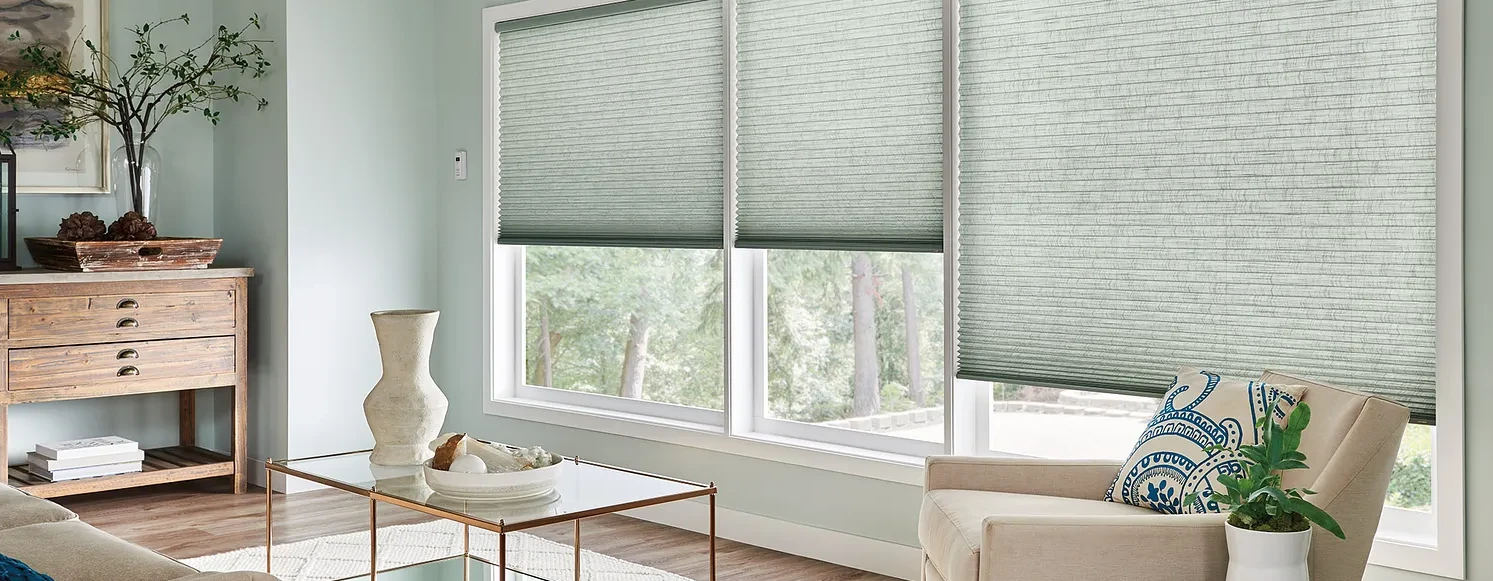
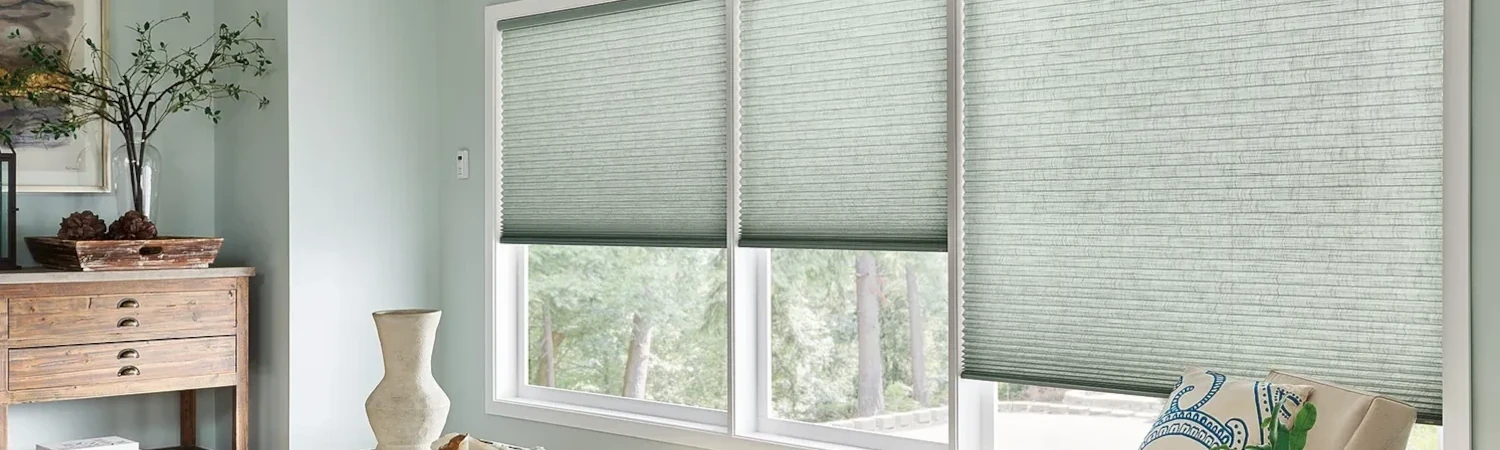
Update

diff --git a/best-window-treatments-oklahoma-weather.html b/best-window-treatments-oklahoma-weather.html
@@ -140,7 +140,7 @@
       <div class="rel-position margin-tb-25">
         <a href="tel:14052595599" onclick="return gtag_report_conversion();">
           <div class="heroContainer">
-            <img class="hero" src="/images/oklahoma-weather-window-treatments-hero.webp" width="1200"
+            <img class="hero" src="/images/0726-cellular-shades-rs20-v1-Hero.webp" width="1200"
               height="533" alt="Oklahoma home with energy-efficient window treatments during summer heat">
           </div>
         </a>
@@ -181,14 +181,14 @@
       <div class="container grid-3-col">
         <div class="card h-center-div">
           <h3 class='variable-h3-orange h-center balanced-text'>Cellular (Honeycomb) Shades</h3>
-          <img class='margin-tb-25' src="/images/Graber-Cellular-Shades-Energy-Efficiency.webp" alt="Graber cellular shades showing honeycomb insulation" loading="lazy" width="800" height="533">
+          <img class='margin-tb-25' src="/images/0645-cellular-shades-rs22-v2.webp" alt="Graber cellular shades showing honeycomb insulation" loading="lazy" width="800" height="533">
           <p class='padding-left-5px'>The honeycomb design traps air in little pockets, creating an insulating layer at your window. Graber<sup>®</sup> states up to 74% reduction in heating and cooling energy loss at the window with their cellular shades - that's huge when Oklahoma temps swing from 10°F to 110°F.</p>
           <p class='padding-left-5px padding-top-20px'><span class="fw-bold">Best for:</span> Bedrooms, living rooms, any window where you want year-round insulation</p>
           <p class='padding-left-5px padding-top-20px'><span class="fw-bold">Oklahoma advantage:</span> Works for both summer heat and winter cold - perfect for our crazy temperature swings</p>
         </div>
         <div class="card h-center-div">
           <h3 class='variable-h3-orange h-center balanced-text'>Solar Shades</h3>
-          <img class='margin-tb-25' src="/images/Norman-Solar-Shades-UV-Protection.webp" alt="Norman solar shades blocking intense Oklahoma sunlight" loading="lazy" width="800" height="533">
+          <img class='margin-tb-25' src="/images/10111-solar-eco-performance-shades-rs20-v1.webp" alt="Norman solar shades blocking intense Oklahoma sunlight" loading="lazy" width="800" height="533">
           <p class='padding-left-5px'>These shades block up to 95% of UV rays while still letting you see outside. They're like sunglasses for your windows - you keep your view of the backyard while cutting the heat and glare that makes your living room feel like an oven in July.</p>
           <p class='padding-left-5px padding-top-20px'><span class="fw-bold">Best for:</span> West-facing windows, sunrooms, home offices with computer screens</p>
           <p class='padding-left-5px padding-top-20px'><span class="fw-bold">Oklahoma advantage:</span> Protects furniture from fading in our intense summer sun while maintaining your view</p>
